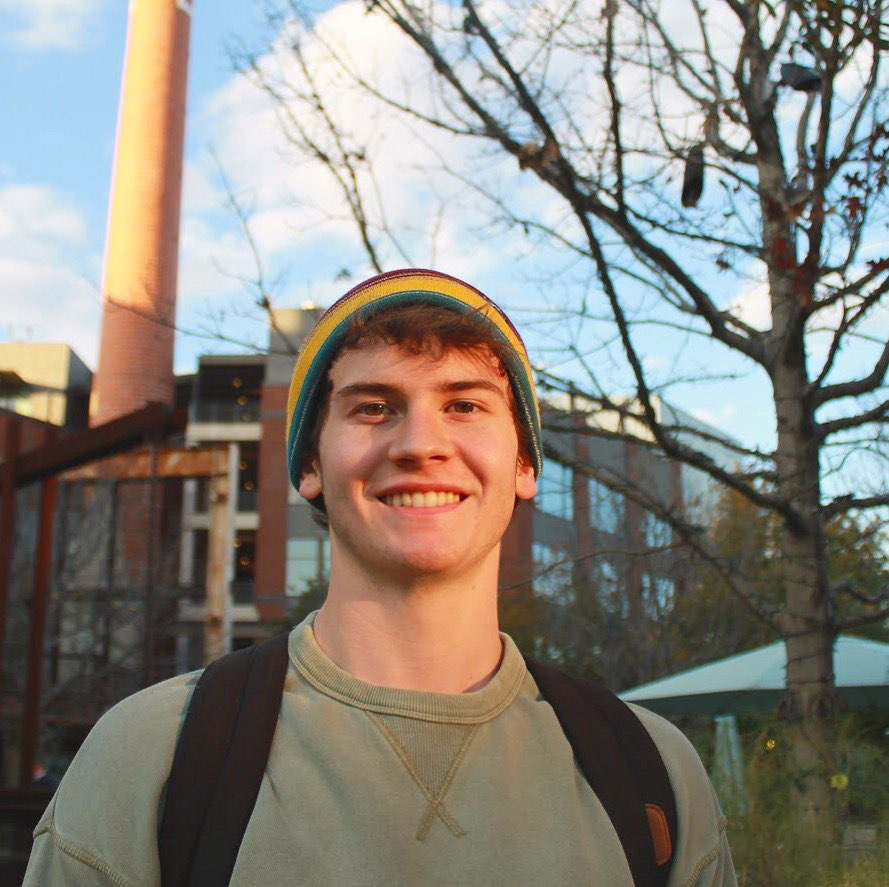
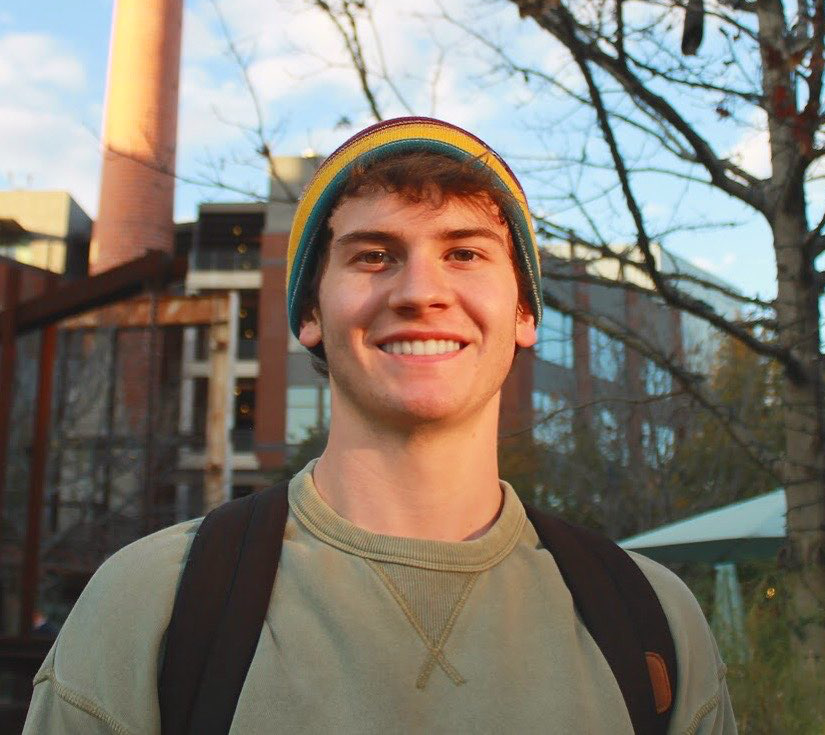
style and layout adjustment

diff --git a/src/app/page.jsx b/src/app/page.jsx
@@ -3,6 +3,7 @@ import { useState } from 'react'
 import Head from 'next/head'
 import { BsFillMoonStarsFill } from 'react-icons/bs'
 import { AiFillTwitterCircle, AiFillLinkedin, AiFillGithub } from 'react-icons/ai'
+import avatar from 'public/avatar.png'
 import {
   SiTypescript,
   SiPostgresql,
@@ -34,7 +35,7 @@ export default function Home() {
       <Head>
         <title>Bobby Walsh Portfolio</title>
         <meta name="description" content="Generated by create next app" />
-       <link rel="icon" href="/images/favicon.ico" sizes="any" />
+        <link rel="icon" href="/images/favicon.ico" sizes="any" />
       </Head>
 
       <main className="bg-orange-100 dark:bg-gray-900 px-10 md:px-20 lg:px-40 p-3 ">
@@ -64,7 +65,7 @@ export default function Home() {
             <h2 className="text-5xl py-2 dark:text-gray-300  text-orange-400 font-medium md:text-6xl">Bobby Walsh</h2>
             <h3 className="text-2xl py-2 dark:text-gray-100 text-amber-950 md:text-3xl">Full-Stack Developer</h3>
             <p
-              className="text-md py-5 leading-8
+              className="text-md py-2 leading-8
                 dark:text-gray-100 text-amber-950
                md:text-xl max-w-xl mx-auto"
             >
@@ -75,26 +76,27 @@ export default function Home() {
               in the field. Let's connect and explore opportunities together!
             </p>
           </div>
-          <div className="text-5xl flex justify-center gap-16 py-3 dark:text-gray-100">
-            <a href="https://twitter.com/CurrentlyBog" target="_blank" rel="noreferrer">
-              <AiFillTwitterCircle />
-            </a>
+          <div className="relative mx-auto rounded-full w-80 h-80 mt-10 overflow-hidden md:h-96 md:w-96">
+            <div className="aspect-w-1 aspect-h-1">
+              <Image
+                src={avatar}
+                alt="avatar"
+                width={0}
+                height={0}
+                sizes="100vw"
+                fill={true}
+                style={{ objectFit: 'cover' }}
+                className="rounded-full"
+              />
+            </div>
+          </div>
+          <div className="text-6xl flex justify-center gap-16 py-6 dark:text-gray-100">
             <a href="https://www.linkedin.com/in/bobbydwalsh/" target="_blank" rel="noreferrer">
               <AiFillLinkedin />
             </a>
             <a href="https://github.com/CurrentlyBob" target="_blank" rel="noreferrer">
               <AiFillGithub />
             </a>
-          </div>
-          <div className="relative mx-auto bg-gradient-to-b from-orange-500 rounded-full w-80 h-80 mt-20 overflow-hidden md:h-96 md:w-96">
-            <Image
-              src="/avatar.png"
-              alt="avatar"
-              width={0}
-              height={0}
-              sizes="100vw"
-              style={{ width: '100%', height: 'auto' }}
-            />
           </div>
         </section>
         <section>
